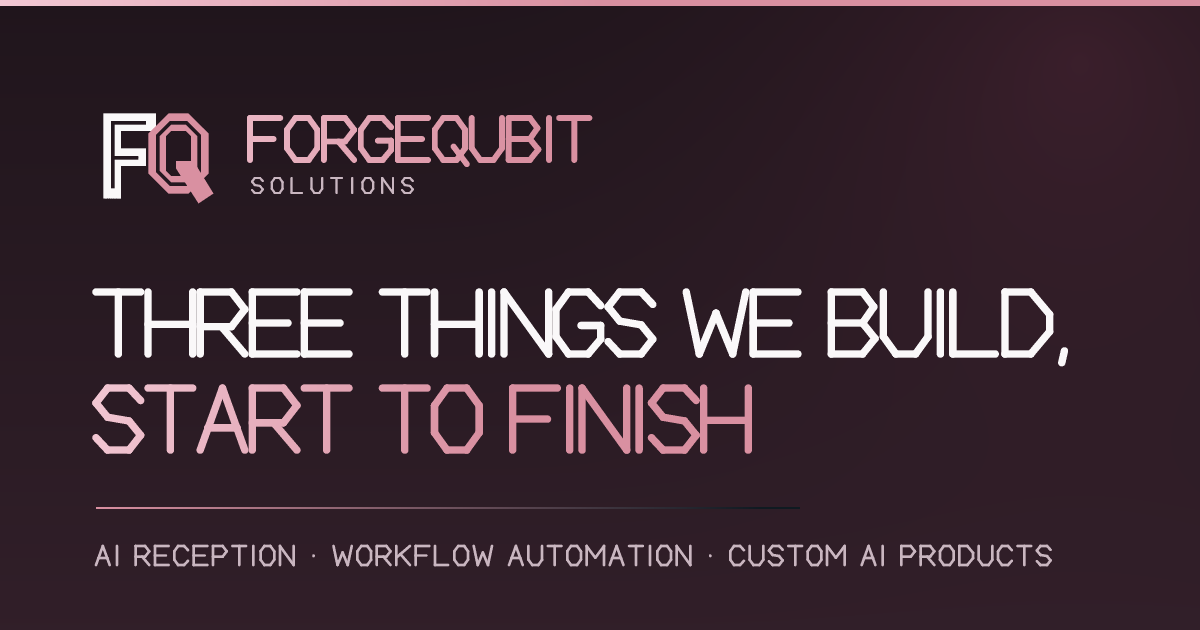
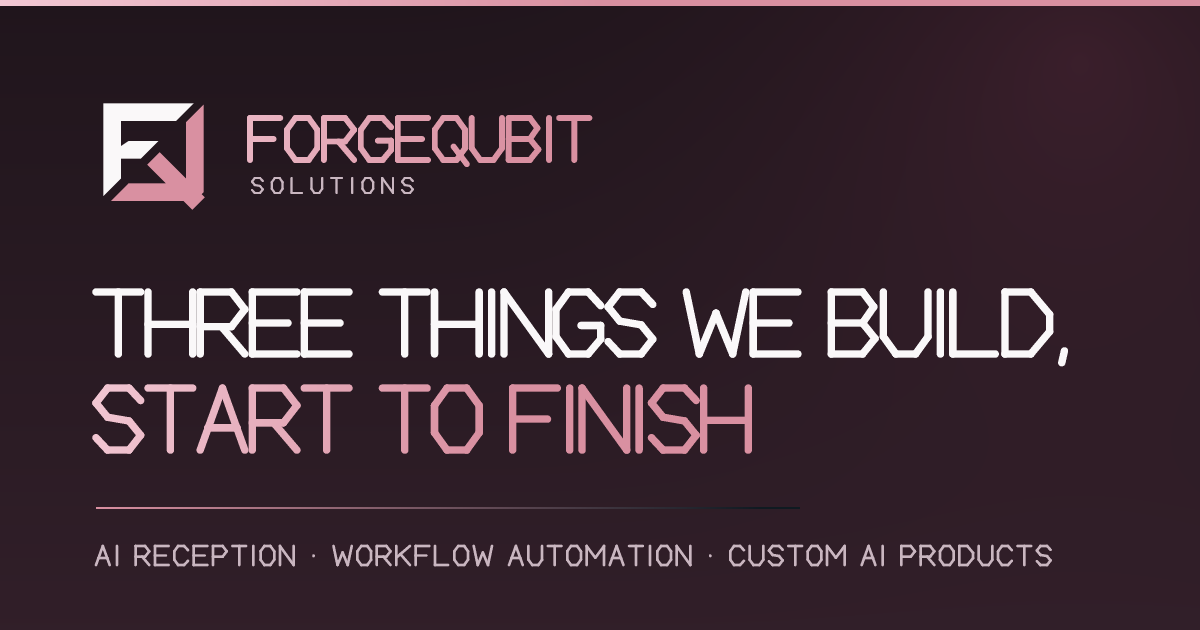
seo optimised

Changed region(s): [[0.0617, 0.1508, 0.185, 0.3317]]

diff --git a/src/brand.js b/src/brand.js
@@ -1,16 +1,22 @@
-// FQ monogram: matching bands, shared rhythm and open negative space.
+// Angular FQ from the approved reference. Every principal stroke is 7 units.
 export const BRAND = { oxblood: '#70283F', rose: '#D990A1', porcelain: '#FAF8F9', ink: '#281E23' }
-export const MARK_F = [[3,7],[24,7],[24,14],[10,14],[10,21],[20,21],[20,28],[10,28],[10,41],[3,41]]
-export const F_CHANNEL = [[6,37],[6,10],[20,10],[20,11.5],[7.5,11.5],[7.5,24],[17,24],[17,25.5],[7.5,25.5],[7.5,37]]
-export const Q_CHANNEL_OUTER = [[29.5,10],[36.5,10],[42,15.5],[42,30.5],[36.5,36],[29.5,36],[24,30.5],[24,15.5]]
-export const Q_CHANNEL_INNER = [[30,11.5],[36,11.5],[40.5,16],[40.5,30],[36,34.5],[30,34.5],[25.5,30],[25.5,16]]
-export const MARK_OUTER = [[29,7],[37,7],[45,15],[45,31],[37,39],[29,39],[21,31],[21,15]]
-export const MARK_INNER = [[30,14],[36,14],[38,16],[38,30],[36,32],[30,32],[28,30],[28,16]]
-export const MARK_TAIL = [[32,26],[39,26],[47,39],[41,43],[32,29]]
+export const STROKE_WIDTH = 7
+export const MARK_F = [[3,3],[39,3],[32,10],[10,10],[10,20],[13,18],[25,18],[18,25],[10,25],[10,33],[3,40]]
+export const MARK_Q = [[43,3.5],[43,38.5],[39.5,42],[6,42],[13,35],[36,35],[36,10.5]]
+
+// A diagonal must be measured perpendicular to its edges, not vertically.
+// The same width as the F crossbar gives an offset of 7 / (2 * sqrt(2)).
+const offset = STROKE_WIDTH / (2 * Math.SQRT2)
+export const MARK_TAIL = [
+  [23 + offset, 25 - offset],
+  [41 + offset, 43 - offset],
+  [41 - offset, 43 + offset],
+  [23 - offset, 25 + offset],
+]
 export const polygonPath = (points) => `M${points.map(p => p.join(' ')).join('L')}Z`
-export const F_PATH = polygonPath(MARK_F) + polygonPath(F_CHANNEL)
-export const MARK_PATH = polygonPath(MARK_OUTER) + polygonPath(MARK_INNER) + polygonPath(Q_CHANNEL_OUTER) + polygonPath(Q_CHANNEL_INNER)
+export const F_PATH = polygonPath(MARK_F)
+export const MARK_PATH = polygonPath(MARK_Q)
 export const TAIL_PATH = polygonPath(MARK_TAIL)
 export function logoSvg({ mono = false } = {}) {
-  return `<svg xmlns="http://www.w3.org/2000/svg" viewBox="0 0 48 48"><path fill="${BRAND.oxblood}" fill-rule="evenodd" d="${F_PATH}"/><path fill="${mono ? BRAND.oxblood : BRAND.rose}" fill-rule="evenodd" d="${MARK_PATH}"/><path fill="${mono ? BRAND.oxblood : BRAND.rose}" d="${TAIL_PATH}"/></svg>`
+  return `<svg xmlns="http://www.w3.org/2000/svg" viewBox="0 0 48 48"><path fill="${BRAND.oxblood}" d="${F_PATH}"/><path fill="${mono ? BRAND.oxblood : BRAND.rose}" d="${MARK_PATH}"/><path fill="${mono ? BRAND.oxblood : BRAND.rose}" d="${TAIL_PATH}"/></svg>`
 }

diff --git a/src/logo.jsx b/src/logo.jsx
@@ -1,6 +1,6 @@
 import { F_PATH, MARK_PATH, TAIL_PATH } from './brand.js'
 
-/** FQ ligature: two interlocking letters on a shared geometric grid. */
+/** Angular FQ: equal-weight horizontal and diagonal middle strokes. */
 export function LogoMark({ size = 28, className = '', title }) {
   return (
     <svg className={`logo-mark ${className}`} width={size} height={size} viewBox="0 0 48 48"
